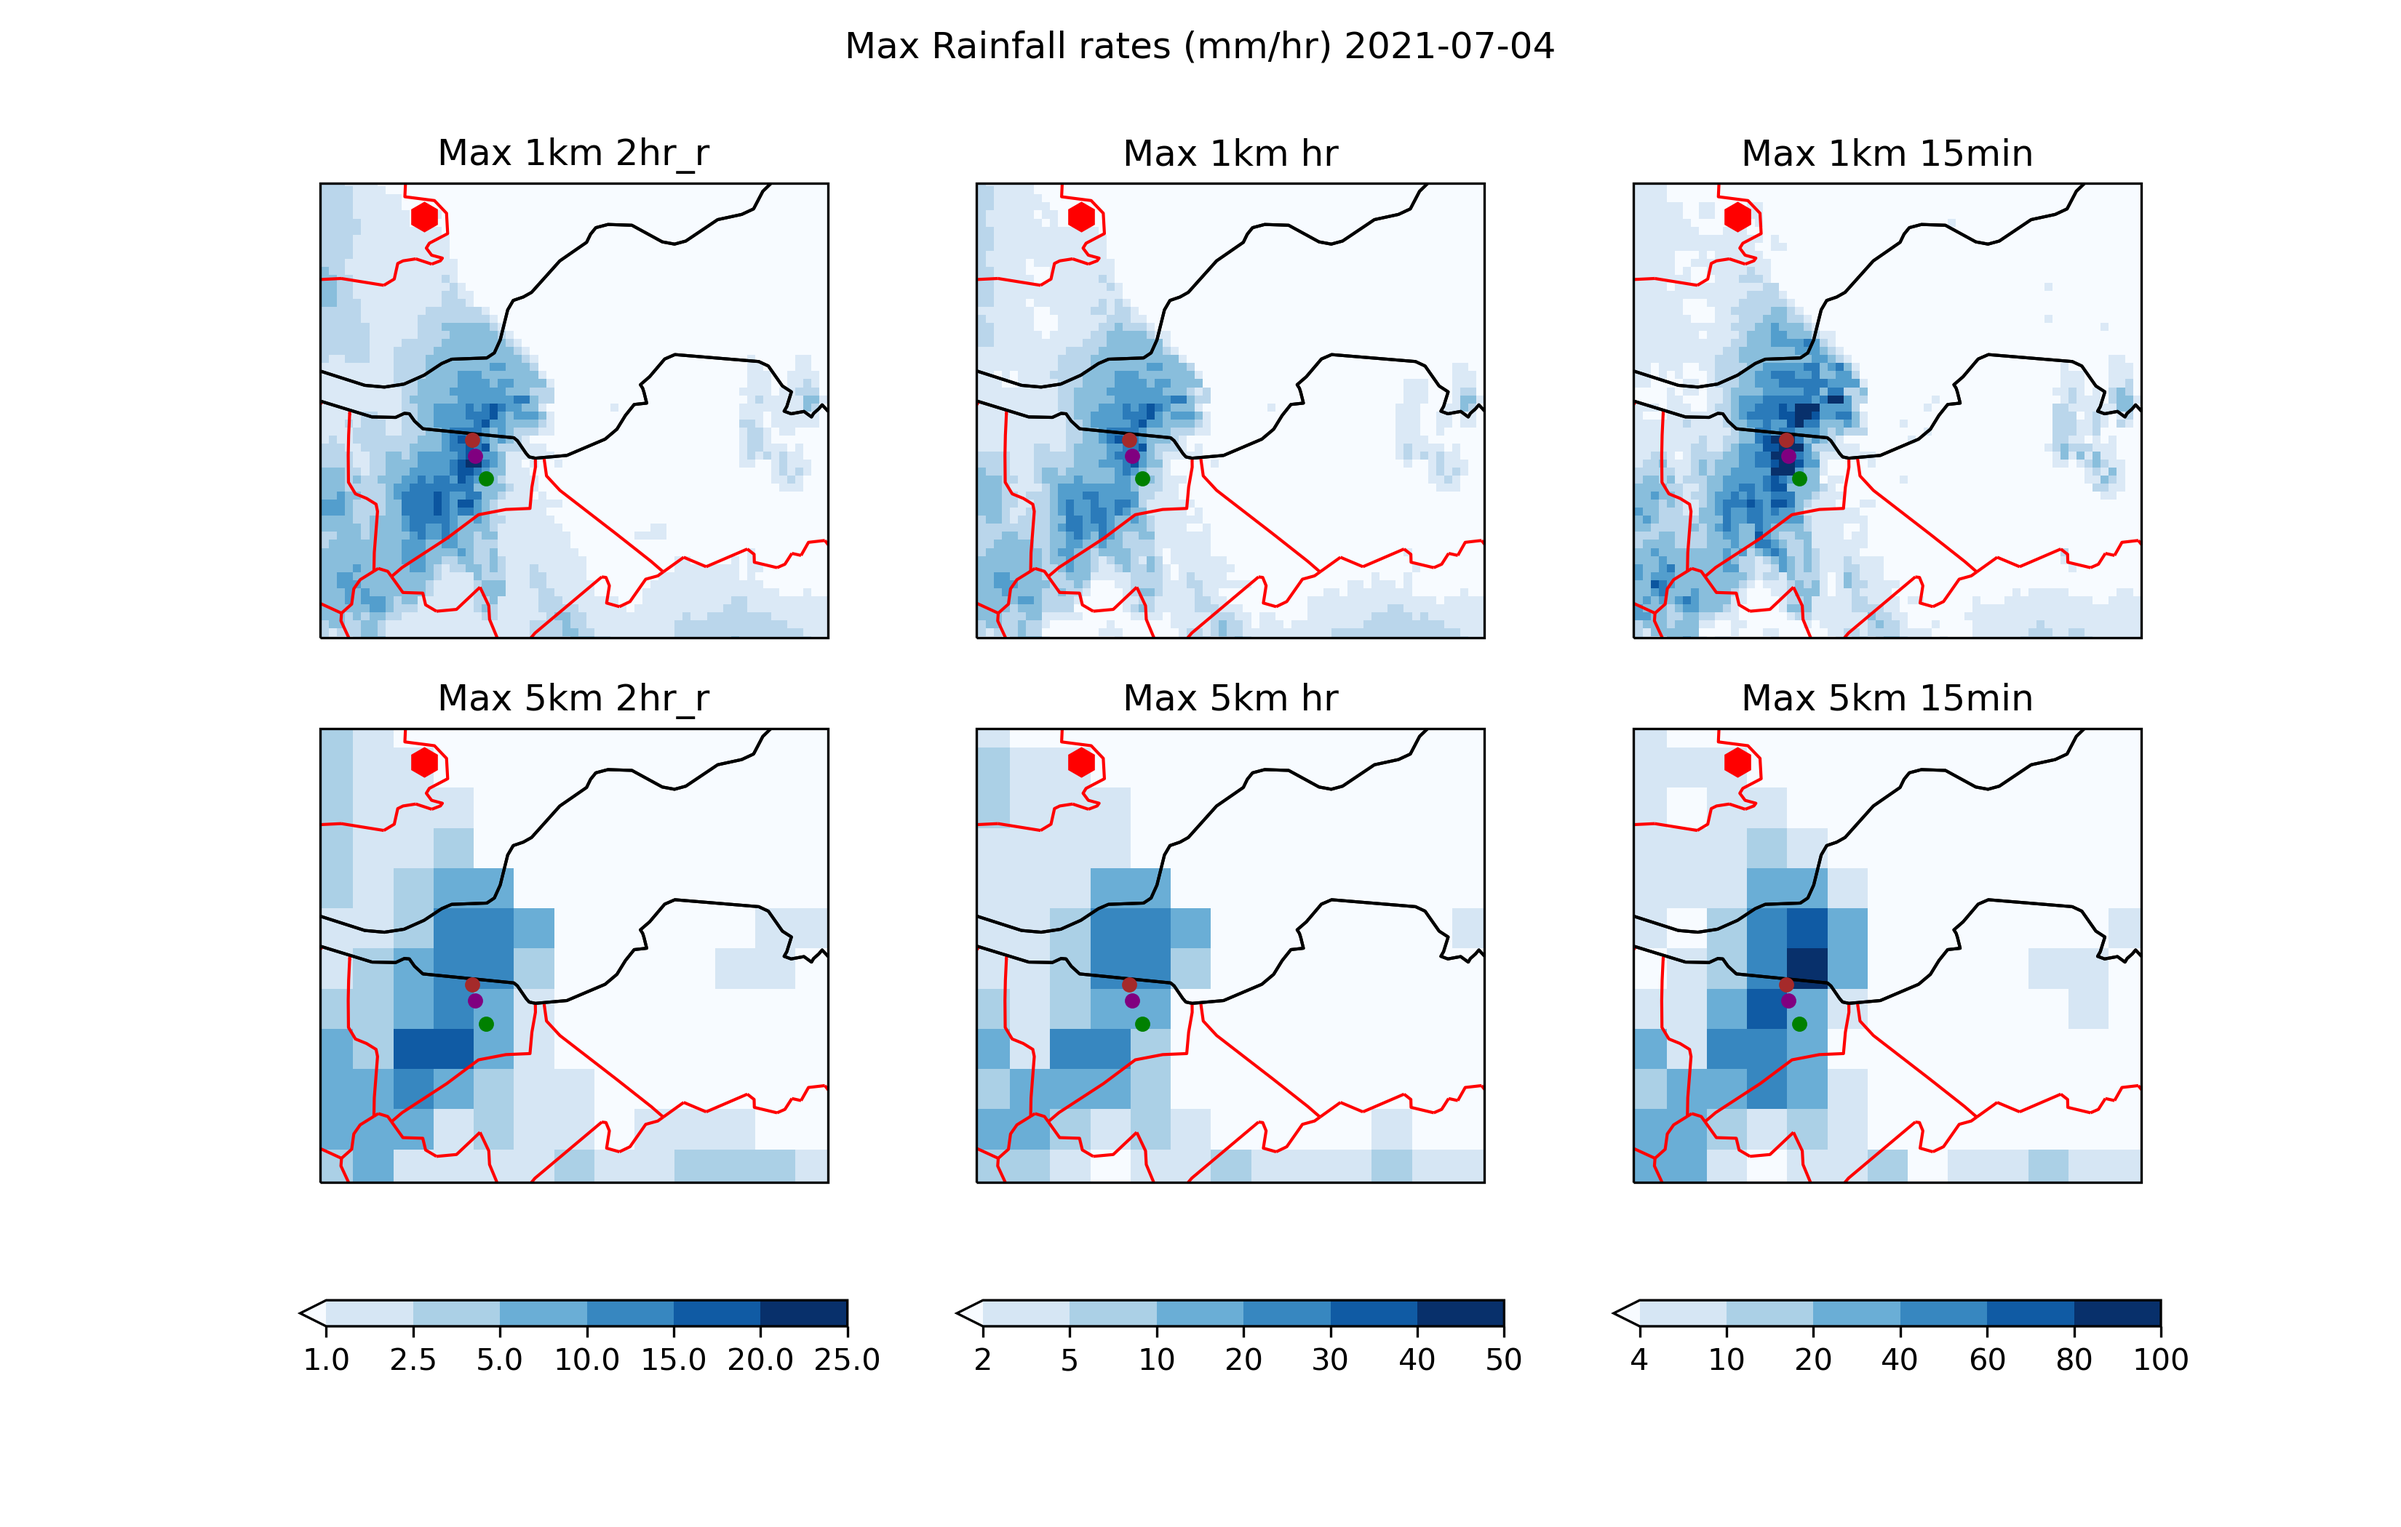
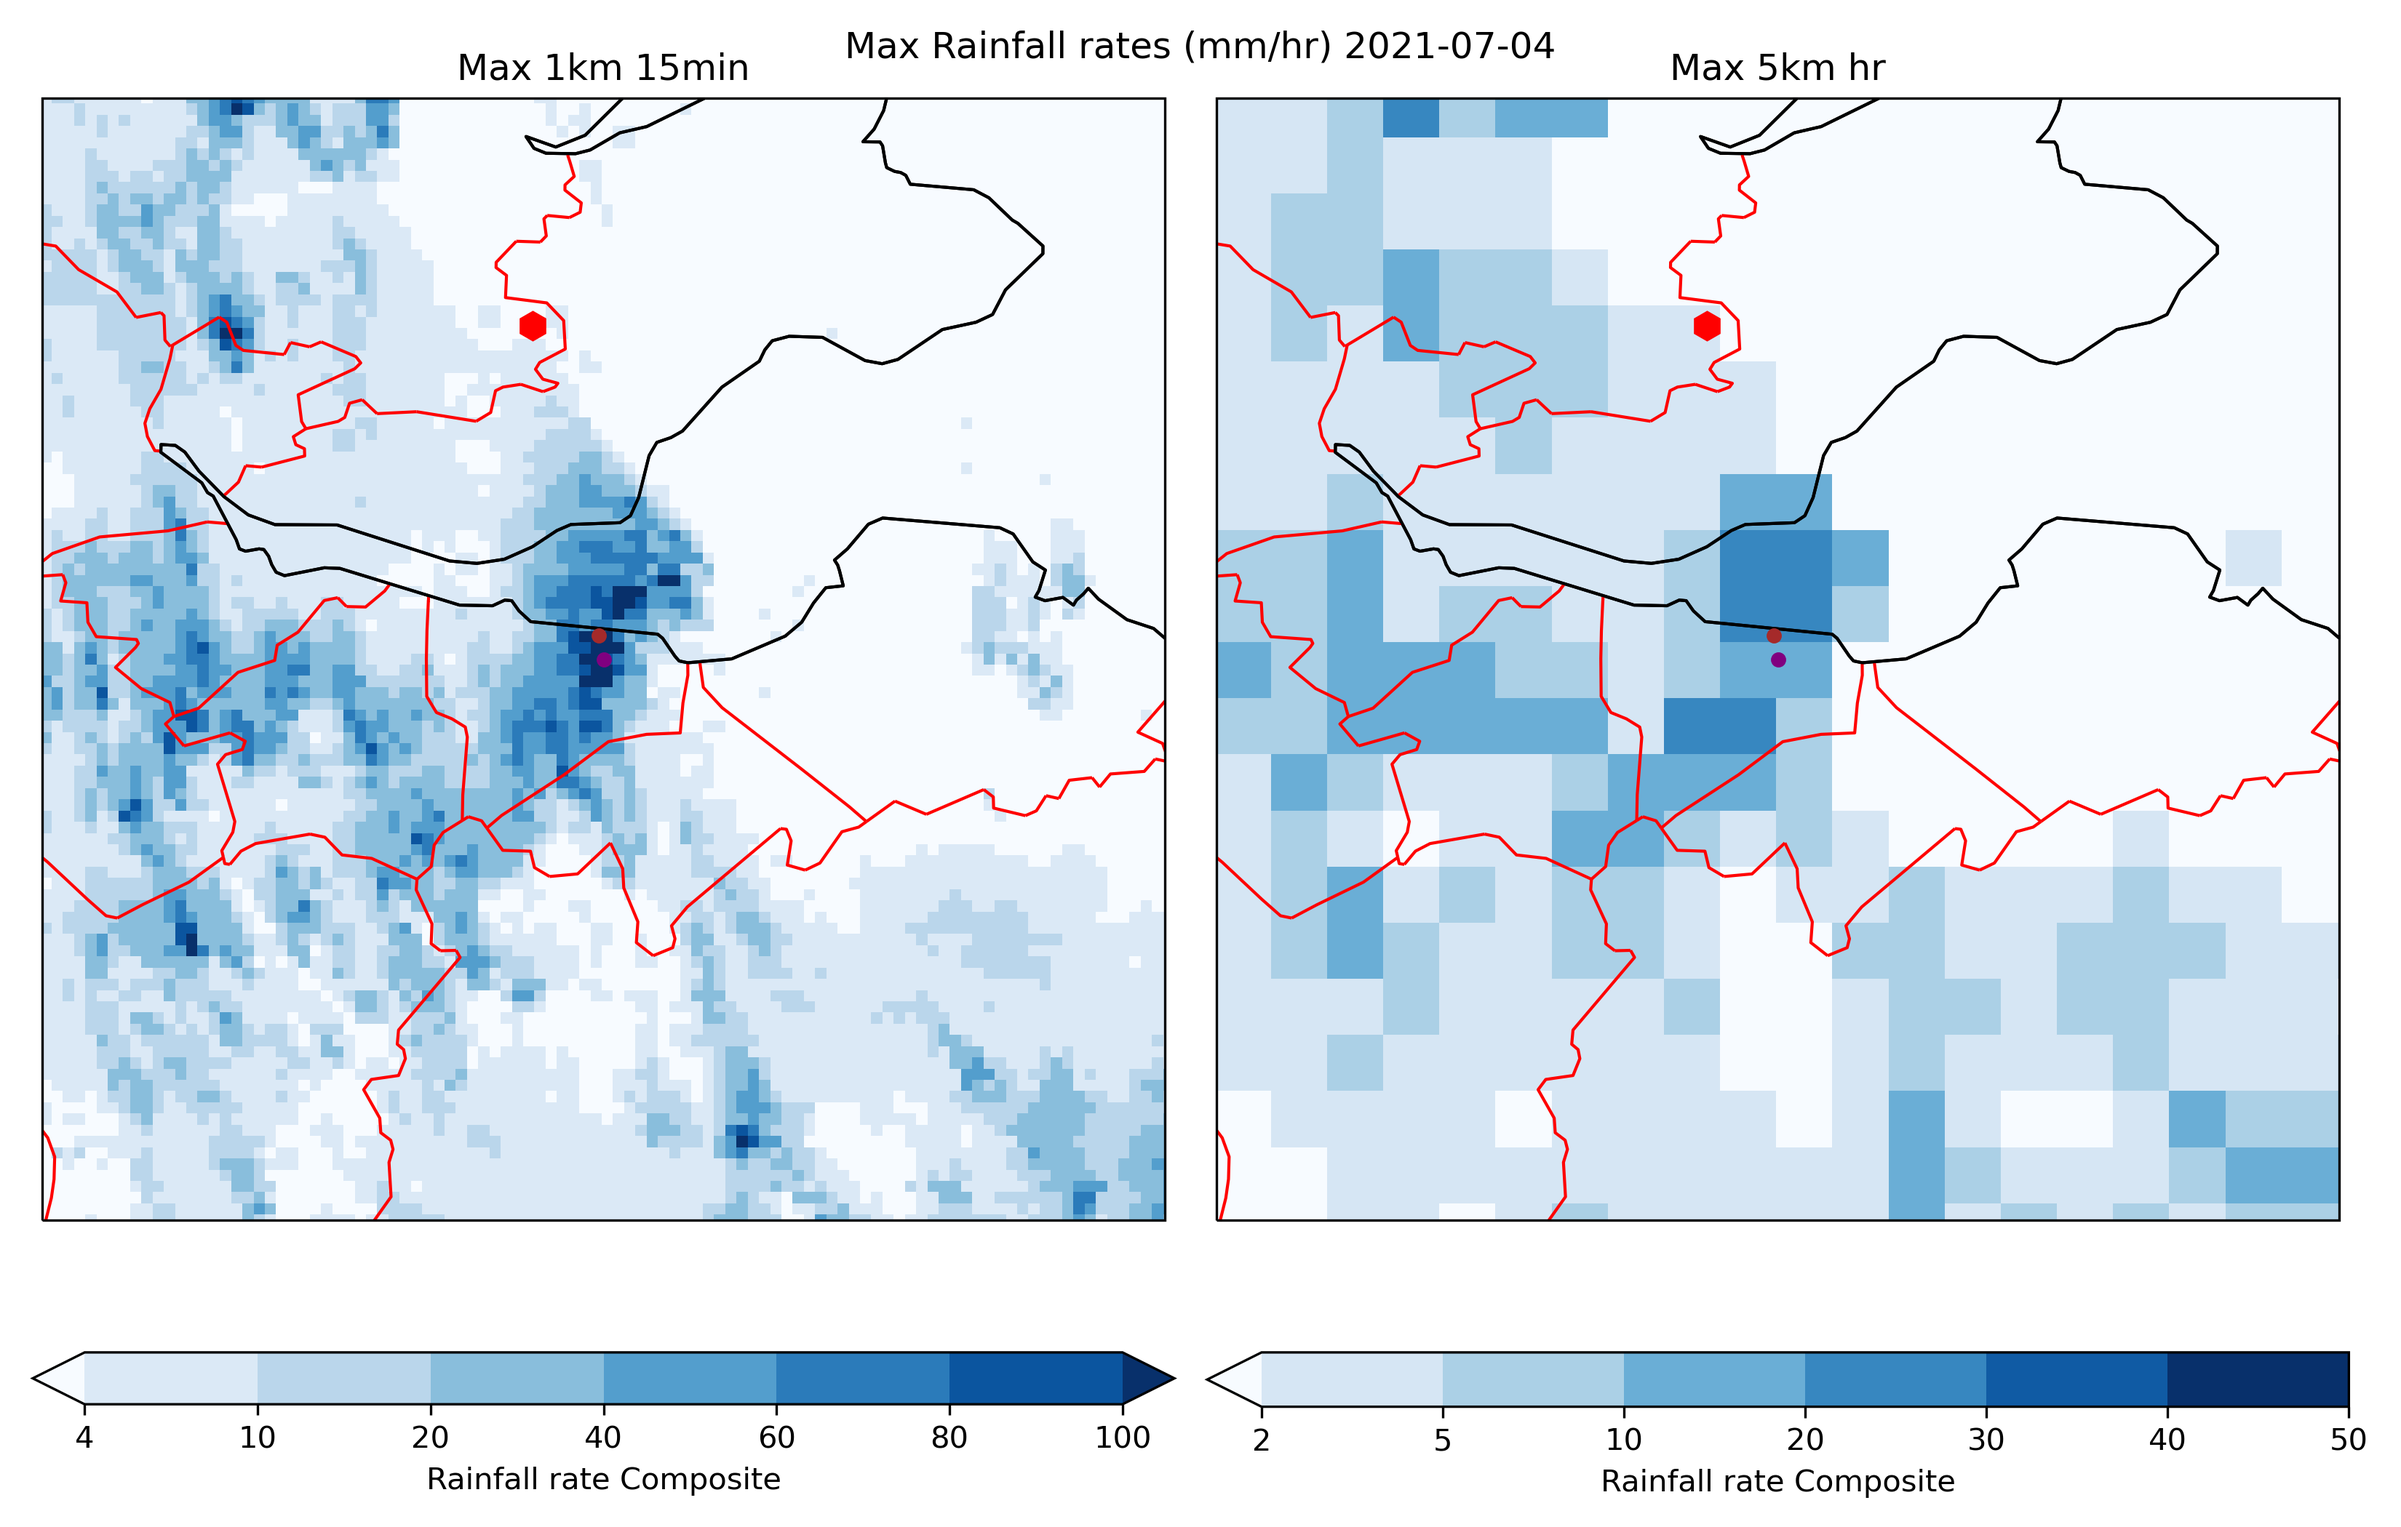
Some tweaks to figures. Removed KB from commonLib

diff --git a/plot_2021_07_04.py b/plot_2021_07_04.py
@@ -33,8 +33,7 @@ edinburgh_KB = dict(projection_x_coordinate=326495,
                           projection_y_coordinate=670628)
 
 # sites we want to plot and the colors they are.
-sites=dict(castle=edinburgh_castle,botanics=edinburgh_botanics,KB=edinburgh_KB)
-colors = dict(castle='purple',botanics='brown',KB='green')
+
 
 time_str=f"{year:04d}{month:02d}{day:02d}"
 # get the data
@@ -43,7 +42,7 @@ if read_data:
     rain1h=dict()
     rain15m=dict()
     for resoln in ['1km','5km']:
-        nimrod_dir=pathlib.Path(f"/badc/ukmo-nimrod/data/composite/uk-{resoln}")/f"{year:04d}"
+        nimrod_dir=commonLib.nimrodRootDir/f"uk-{resoln}/{year:04d}"
         file_name = f'metoffice-c-band-rain-radar_uk_{time_str}_{resoln}-composite.dat.gz.tar'
         path = nimrod_dir/file_name
         rain = commonLib.extract_nimrod_day(path,region=rgn,QCmax=400.0)
@@ -56,21 +55,45 @@ if read_data:
 time_sel=slice(f'{year}-{month:02d}-{day:02d}T{hr_start:02d}',f'{year}-{month:02d}-{day:02d}T{hr_end:02d}')
 
 # setup for landscape. 
-figts,axes = plt.subplots(nrows=2,ncols=3,clear=True,sharex='all',sharey='row',
+# figts,axes = plt.subplots(nrows=2,ncols=3,clear=True,sharex='all',sharey='row',
+#                           num=f'UKradarEDts{year}_{month:02d}_{day:02d}',figsize=[11,7])
+# axes=axes.T
+# # plot not quite overlapping
+# for ax,(title,var) in zip(axes.flatten(),itertools.chain(rain2hr.items(),rain1h.items(),rain15m.items())):
+#     for label,loc in sites.items():
+#         ts = var.sel(method='nearest',**loc).sel(time=time_sel)
+#         ts.plot.step(ax=ax,color=colors[label],linewidth=2,label=label)
+#     ax.set_title(title)
+#     ax.grid(visible=True,axis='x')
+#
+#
+#
+# figts.suptitle(f"Rainfall rates (mm/hr) {year}-{month:02d}-{day:02d}")
+# axes[0][0].legend()
+# figts.tight_layout()
+# figts.show()
+# commonLib.saveFig(figts)
+sites = commonLib.sites.copy() # remove KB
+kb = sites.pop('KB')
+figts,axes = plt.subplots(nrows=1,ncols=2,clear=True,sharex='all',sharey='row',
                           num=f'UKradarEDts{year}_{month:02d}_{day:02d}',figsize=[11,7])
-axes=axes.T
-# plot not quite overlapping
-for ax,(title,var) in zip(axes.flatten(),itertools.chain(rain2hr.items(),rain1h.items(),rain15m.items())):
+
+for ax,key,var in zip(axes.flatten(),['1km 15min','5km hr'],[rain15m,rain1h]):
     for label,loc in sites.items():
-        ts = var.sel(method='nearest',**loc).sel(time=time_sel)
-        ts.plot.step(ax=ax,color=colors[label],linewidth=2,label=label)
-    ax.set_title(title)
+        scale =1
+        if '15min' in key:
+            scale=4
+        ts = var[key].sel(method='nearest',**loc).sel(time=time_sel)/scale
+        ts.plot.step(ax=ax,color=commonLib.colors[label],linewidth=2,label=f"{label} {int(ts.sum()):3d} mm")
+    ax.set_title(key)
+    ax.set_ylabel("Rain (mm/period)")
     ax.grid(visible=True,axis='x')
+    ax.legend()
 
 
 
-figts.suptitle(f"Rainfall rates (mm/hr) {year}-{month:02d}-{day:02d}")
-axes[0][0].legend()
+figts.suptitle(f"{year}-{month:02d}-{day:02d}")
+
 figts.tight_layout()
 figts.show()
 commonLib.saveFig(figts)
@@ -84,38 +107,69 @@ levels_15m=levels_1h*2
 kw_cbar=dict(orientation='horizontal',fraction=0.05,pad=0.1)
 cmap='Blues'
 
-# Setup for portrait
-fig,axes = plt.subplots(nrows=2,ncols=3,clear=True,sharex=True,sharey=True,
-                        num=f'UKradar{year}_{month:02d}_{day:02d}',figsize=[11,7],
-                        subplot_kw=dict(projection=proj))
-axes=axes.T 
+# # Setup for portrait
+# fig,axes = plt.subplots(nrows=2,ncols=3,clear=True,sharex=True,sharey=True,
+#                         num=f'UKradar{year}_{month:02d}_{day:02d}',figsize=[11,7],
+#                         subplot_kw=dict(projection=proj))
+# axes=axes.T # make landscape
+#
+# for rain,axe,levels in zip([rain2hr,rain1h,rain15m],
+#                            axes[:],
+#                            [levels_2h_r,levels_1h,levels_15m]):
+#
+#     for ax,(title,var) in zip(axe,rain.items()):
+#
+#         ax.set_extent([-3.5,-2.5,55.75,56.25],crs=ccrs.PlateCarree())
+#         maxV = var.max('time')
+#         cm=maxV.plot(ax=ax,cmap=cmap,levels=levels,transform=proj,add_colorbar=False)
+#         ax.set_title(f"Max {title}")
+#         # add on Edinburgh (centre) & Edinburgh castle.
+#         commonLib.std_decorators(ax) # put std stuff on axis
+#
+#     fig.colorbar(cm,ax=axe,**kw_cbar) # colorbar for the releant plots
+# # end looping over vars
+# for ax in axes.flatten(): # put the sites on
+#     for key in sites.keys():
+#         c = commonLib.colors[key]
+#         loc = commonLib.sites[key]
+#         ax.plot(*(loc.values()),marker='o',ms=4,color=c)
+#
+#
+# fig.suptitle(f"Max Rainfall rates (mm/hr) {year}-{month:02d}-{day:02d}")
+#
+#
+# fig.tight_layout()
+# fig.show()
+# commonLib.saveFig(fig)
 
-for rain,axe,levels in zip([rain2hr,rain1h,rain15m],
-                           axes[:],
-                           [levels_2h_r,levels_1h,levels_15m]):
-    
-    for ax,(title,var) in zip(axe,rain.items()):
+fig, axes = plt.subplots(nrows=1, ncols=2, clear=True, sharex=True, sharey=True,
+                         num=f'UKradar{year}_{month:02d}_{day:02d}', figsize=[11, 7],
+                         subplot_kw=dict(projection=proj))
 
-        ax.set_extent([-3.5,-2.5,55.75,56.25],crs=ccrs.PlateCarree())
-        maxV = var.max('time')
-        cm=maxV.plot(ax=ax,cmap=cmap,levels=levels,transform=proj,add_colorbar=False)
-        ax.set_title(f"Max {title}")
-        # add on Edinburgh (centre) & Edinburgh castle.
-        commonLib.std_decorators(ax) # put std stuff on axis
+ext = [commonLib.edinburgh_region['projection_x_coordinate'].start,commonLib.edinburgh_region['projection_x_coordinate'].stop,
+       commonLib.edinburgh_region['projection_y_coordinate'].start,commonLib.edinburgh_region['projection_y_coordinate'].stop]
 
-    fig.colorbar(cm,ax=axe,**kw_cbar) # colorbar for the releant plots
+for ax,key,var,levels in zip(axes.flatten(),['1km 15min','5km hr'],[rain15m,rain1h],
+                                [levels_15m,levels_1h]):
+
+    ax.set_extent(ext, crs=proj)
+
+    maxV = var[key].max('time')
+    cm = maxV.plot(ax=ax, cmap=cmap, levels=levels, transform=proj, add_colorbar=True,cbar_kwargs=kw_cbar)
+    ax.set_title(f"Max {key}")
+
+    commonLib.std_decorators(ax)  # put std stuff on axis
+# add on botanics & castle
 # end looping over vars
-for ax in axes.flatten(): # put the sites on
+for ax in axes.flatten():  # put the sites on
     for key in sites.keys():
-        c = colors[key]
-        loc = sites[key]
-        ax.plot(*(loc.values()),marker='o',ms=4,color=c)
-
+        c = commonLib.colors[key]
+        loc = commonLib.sites[key]
+        ax.plot(*(loc.values()), marker='o', ms=4, color=c)
 
 fig.suptitle(f"Max Rainfall rates (mm/hr) {year}-{month:02d}-{day:02d}")
 
-
 fig.tight_layout()
 fig.show()
-commonLib.saveFig(fig)    
+commonLib.saveFig(fig)
 

diff --git a/commonLib.py b/commonLib.py
@@ -36,16 +36,16 @@ edinburgh_castle = dict(projection_x_coordinate=325166,
            projection_y_coordinate=673477)
 
 
-edinburgh_botanics = dict(projection_x_coordinate=324836,
-                          projection_y_coordinate=675483)
+edinburgh_botanics = dict(projection_x_coordinate=324770,
+                          projection_y_coordinate=675587)
 
 edinburgh_KB = dict(projection_x_coordinate=326495,
                           projection_y_coordinate=670628)
 
 # sites we want to plot and the colors they are.
-sites=dict(castle=edinburgh_castle,botanics=edinburgh_botanics,KB=edinburgh_KB)
+sites=dict(castle=edinburgh_castle,botanics=edinburgh_botanics)#,KB=edinburgh_KB)
 edinburgh_region = dict()
-for k,v in edinburgh_castle.items():
+for k,v in edinburgh_castle.items(): # 50km around edinburgh
     edinburgh_region[k]=slice(v-50e3,v+50e3)
 
 colors = dict(castle='purple',botanics='brown',KB='green')

diff --git a/plot_5km_rain.py b/plot_5km_rain.py
@@ -8,7 +8,7 @@ import commonLib
 import cartopy.crs as ccrs
 import scipy.stats
 import numpy as np
-read_data = False
+read_data = True
 gen_data = False
 if read_data:
     print("Reading data")
@@ -21,7 +21,9 @@ if read_data:
     print("Read monthly summary data")
     seas_max=ds.monthlyMax.sel(**commonLib.edinburgh_region).resample(time='QS-Dec').max().load()
     timeseries=dict()
-    for name,loc in commonLib.sites.items():
+    sites = commonLib.sites.copy()
+    sites.pop('KB')
+    for name,loc in sites.items():
         timeseries[name]=ds.monthlyMax.sel(method='nearest',**loc).resample(time='QS-Dec').max().load()
 
 
